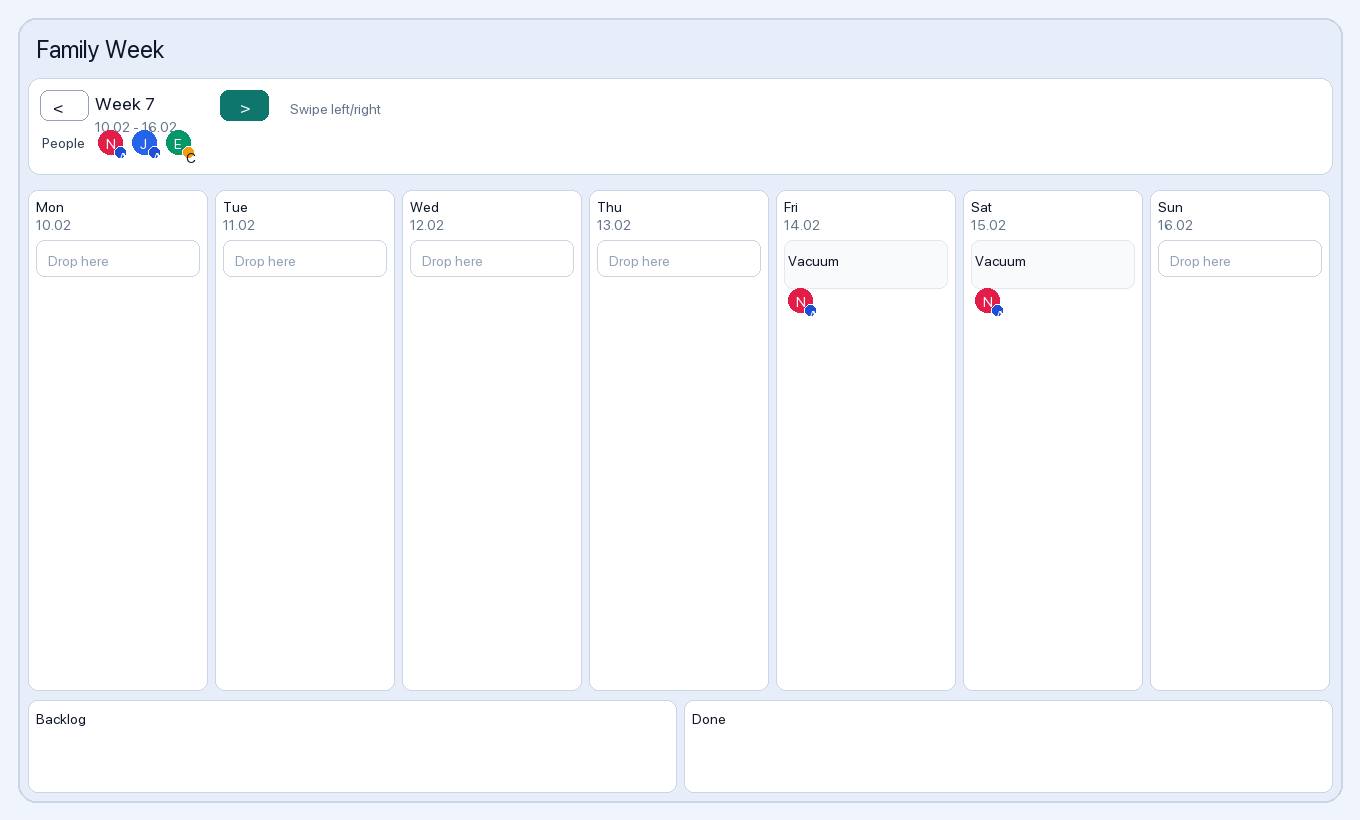
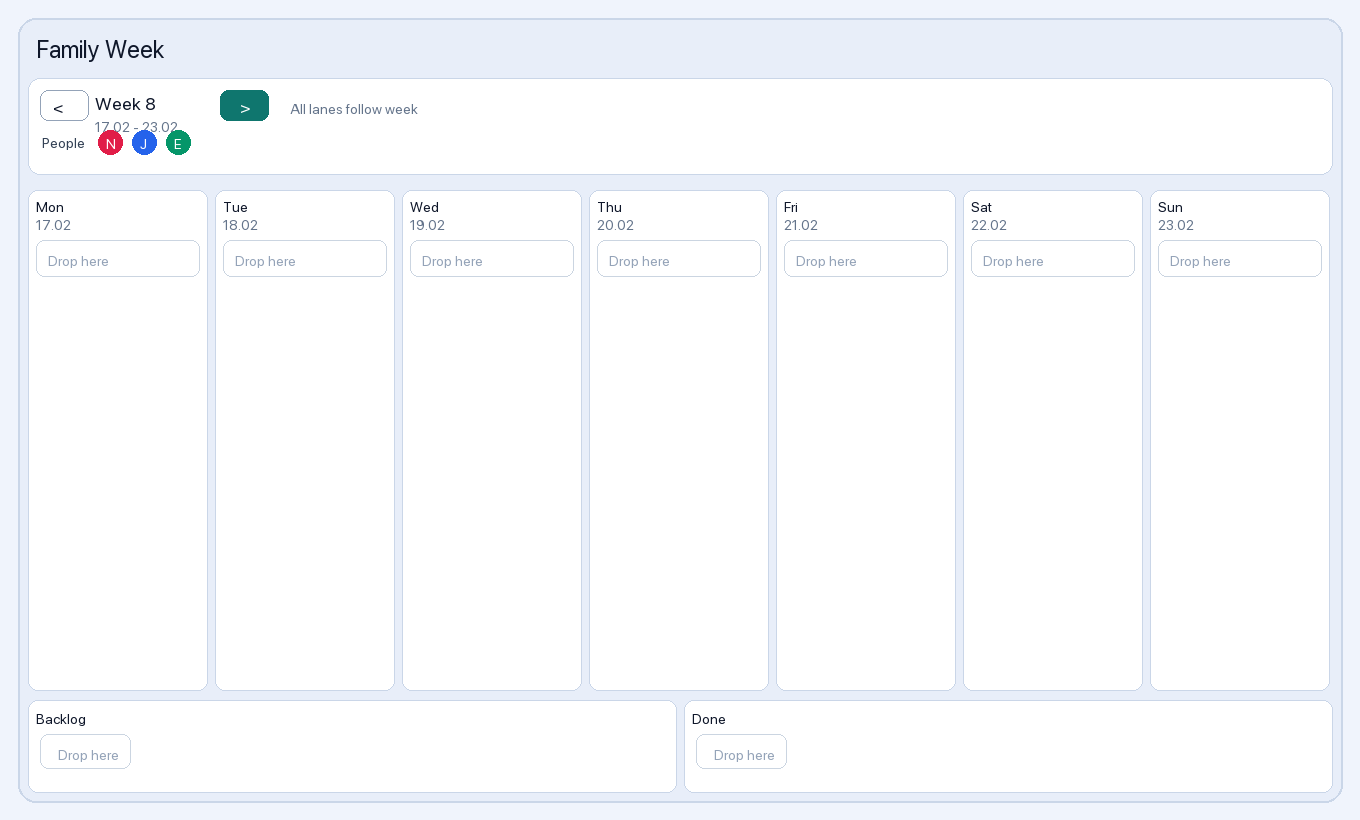
Make all lanes week-bound and editable across week navigation

diff --git a/custom_components/household_chores/frontend/household-chores-card.js b/custom_components/household_chores/frontend/household-chores-card.js
@@ -377,25 +377,20 @@ class HouseholdChoresCard extends HTMLElement {
 
   _tasksForColumn(column) {
     const isWeekdayColumn = this._weekdayKeys().some((day) => day.key === column);
-    if (isWeekdayColumn) {
-      const selectedWeekStart = this._weekStartIso(this._weekOffset);
-      const currentWeekStart = this._weekStartIso(0);
-      const stored = this._board.tasks
-        .filter((t) => t.column === column)
-        .filter((t) => (t.week_start || currentWeekStart) === selectedWeekStart)
-        .sort((a, b) => a.order - b.order || a.created_at.localeCompare(b.created_at));
-
-      if (this._weekOffset > 0) {
-        const projected = this._projectedTasksForFutureWeekday(column, this._weekOffset).filter(
-          (task) => !stored.some((item) => item.template_id && item.template_id === task.template_id)
-        );
-        return [...stored, ...projected];
-      }
-      return stored;
-    }
-    return this._board.tasks
+    const selectedWeekStart = this._weekStartIso(this._weekOffset);
+    const currentWeekStart = this._weekStartIso(0);
+    const stored = this._board.tasks
       .filter((t) => t.column === column)
+      .filter((t) => (t.week_start || currentWeekStart) === selectedWeekStart)
       .sort((a, b) => a.order - b.order || a.created_at.localeCompare(b.created_at));
+
+    if (isWeekdayColumn && this._weekOffset > 0) {
+      const projected = this._projectedTasksForFutureWeekday(column, this._weekOffset).filter(
+        (task) => !stored.some((item) => item.template_id && item.template_id === task.template_id)
+      );
+      return [...stored, ...projected];
+    }
+    return stored;
   }
 
   _projectedTasksForFutureWeekday(weekdayKey, weekOffset) {
@@ -739,7 +734,6 @@ class HouseholdChoresCard extends HTMLElement {
       const oneOffInstances = this._buildOneOffWeekdayInstances(form.title, form.assignees, form.weekdays, form.endDate || "");
       this._board.tasks = [...this._board.tasks, ...oneOffInstances];
     } else {
-      const isWeekday = this._weekdayKeys().some((item) => item.key === form.column);
       this._board.tasks = [
         ...this._board.tasks,
         {
@@ -752,7 +746,7 @@ class HouseholdChoresCard extends HTMLElement {
         end_date: form.endDate || "",
         template_id: "",
         fixed: false,
-        week_start: isWeekday ? this._weekStartIso(this._weekOffset) : "",
+        week_start: this._weekStartIso(this._weekOffset),
         week_number: this._weekNumberForOffset(this._weekOffset),
       },
       ];
@@ -814,7 +808,6 @@ class HouseholdChoresCard extends HTMLElement {
         const oneOffInstances = this._buildOneOffWeekdayInstances(form.title, form.assignees, form.weekdays, form.endDate || "");
         this._board.tasks.push(...oneOffInstances);
       } else {
-        const isWeekday = this._weekdayKeys().some((item) => item.key === form.column);
         this._board.tasks.push({
           id: original.id,
           title: form.title.trim(),
@@ -825,7 +818,7 @@ class HouseholdChoresCard extends HTMLElement {
           end_date: form.endDate || "",
           template_id: "",
           fixed: false,
-          week_start: isWeekday ? this._weekStartIso(this._weekOffset) : "",
+          week_start: this._weekStartIso(this._weekOffset),
           week_number: original.week_number || this._weekNumberForOffset(this._weekOffset),
         });
       }
@@ -862,7 +855,7 @@ class HouseholdChoresCard extends HTMLElement {
   }
 
   _assigneeChips(task) {
-    const draggable = !this._isReadOnlyWeekView() && !task.virtual;
+    const draggable = !task.virtual;
     return task.assignees
       .map((personId) => this._board.people.find((p) => p.id === personId))
       .filter(Boolean)
@@ -920,7 +913,7 @@ class HouseholdChoresCard extends HTMLElement {
   }
 
   _renderTaskCard(task) {
-    const draggable = !this._isReadOnlyWeekView() && !task.virtual;
+    const draggable = !task.virtual;
     return `
       <article class="task ${task.virtual ? "virtual-task" : ""}" draggable="${draggable ? "true" : "false"}" data-task-id="${task.id}" data-virtual="${task.virtual ? "1" : "0"}">
         <div class="task-title">${this._escape(task.title)}</div>
@@ -937,11 +930,11 @@ class HouseholdChoresCard extends HTMLElement {
     const weekdayDate = isWeekday ? this._formatWeekdayDate(column.key) : "";
     const emptyContent = `
       <div class="empty-wrap ${isSideLane ? "side-empty" : "week-empty"}">
-        <div class="empty">${this._isReadOnlyWeekView() && isWeekday ? "No fixed tasks" : "Drop here"}</div>
+        <div class="empty">Drop here</div>
       </div>
     `;
     return `
-      <section class="column ${isSideLane ? "side-lane" : "week-lane"} ${this._isReadOnlyWeekView() && isWeekday ? "week-readonly" : ""}" data-column="${column.key}">
+      <section class="column ${isSideLane ? "side-lane" : "week-lane"}" data-column="${column.key}">
         <header><h3>${column.label}${weekdayDate ? `<small>${weekdayDate}</small>` : ""}</h3><span>${tasks.length}</span></header>
         <div class="tasks">
           ${tasks.length ? tasks.map((task) => this._renderTaskCard(task)).join("") : emptyContent}
@@ -1315,7 +1308,6 @@ class HouseholdChoresCard extends HTMLElement {
       const columnKey = columnEl.dataset.column;
       columnEl.addEventListener("click", (ev) => {
         const isWeekdayColumn = this._weekdayKeys().some((day) => day.key === columnKey);
-        if (this._isReadOnlyWeekView() && isWeekdayColumn) return;
         if (this._draggingTask) return;
         if (ev.target.closest(".task")) return;
         if (ev.target.closest("header")) return;
@@ -1323,7 +1315,6 @@ class HouseholdChoresCard extends HTMLElement {
         this._openAddTaskModalForColumn(columnKey);
       });
       columnEl.addEventListener("dragover", (ev) => {
-        if (this._isReadOnlyWeekView()) return;
         if (ev.dataTransfer.types.includes("text/task")) {
           ev.preventDefault();
           columnEl.classList.add("drag-over");
@@ -1333,7 +1324,6 @@ class HouseholdChoresCard extends HTMLElement {
         columnEl.classList.remove("drag-over");
       });
       columnEl.addEventListener("drop", async (ev) => {
-        if (this._isReadOnlyWeekView()) return;
         columnEl.classList.remove("drag-over");
         const taskId = ev.dataTransfer.getData("text/task");
         const personId = ev.dataTransfer.getData("text/person-assignment");
@@ -1351,9 +1341,8 @@ class HouseholdChoresCard extends HTMLElement {
         const task = this._board.tasks.find((t) => t.id === taskId);
         if (!task) return;
         task.column = columnKey;
-        const isWeekday = this._weekdayKeys().some((day) => day.key === columnKey);
-        task.week_start = isWeekday ? this._weekStartIso(this._weekOffset) : "";
-        if (isWeekday) task.week_number = this._weekNumberForOffset(this._weekOffset);
+        task.week_start = this._weekStartIso(this._weekOffset);
+        task.week_number = this._weekNumberForOffset(this._weekOffset);
         this._reindexAllColumns();
         this._render();
         await this._saveBoard();

diff --git a/README.md b/README.md
@@ -7,6 +7,7 @@ Household Chores is a HACS-installable custom integration for a weekly household
 - Main week row: Monday to Sunday
 - Weekday columns are compressed to fit screen width (no horizontal week scroll)
 - Week navigation with ISO week number (`Week XX`) and swipe/arrow browsing from current week up to +3 weeks
+- All lanes (`Mon..Sun`, `Backlog`, `Done`) are week-bound and follow the selected week together
 - Secondary row: Backlog + Done in a 2-column grid below the week
 - On compact/mobile screens, Backlog/Done tasks switch to a responsive card grid (no forced overflow cards)
 - Header is simplified: week navigator + people strip (tap people strip to manage household members)
@@ -14,6 +15,7 @@ Household Chores is a HACS-installable custom integration for a weekly household
 - Each lane card acts as a hidden quick-add area:
   - tap/click whitespace in `Mon..Sun`, `Backlog`, or `Done` to open Add task prefilled for that lane
   - tap/click on a task still opens edit/delete for that task
+- Future week views use the same interaction model as current week (`Drop here`, click whitespace to add)
 - People with unique colored circular badges and first-letter initials
 - People can be marked as `Adult` or `Child` on create, and edited later in the People modal
 - Assignee chips on tasks show role markers (`A` for Adult, `C` for Child)
